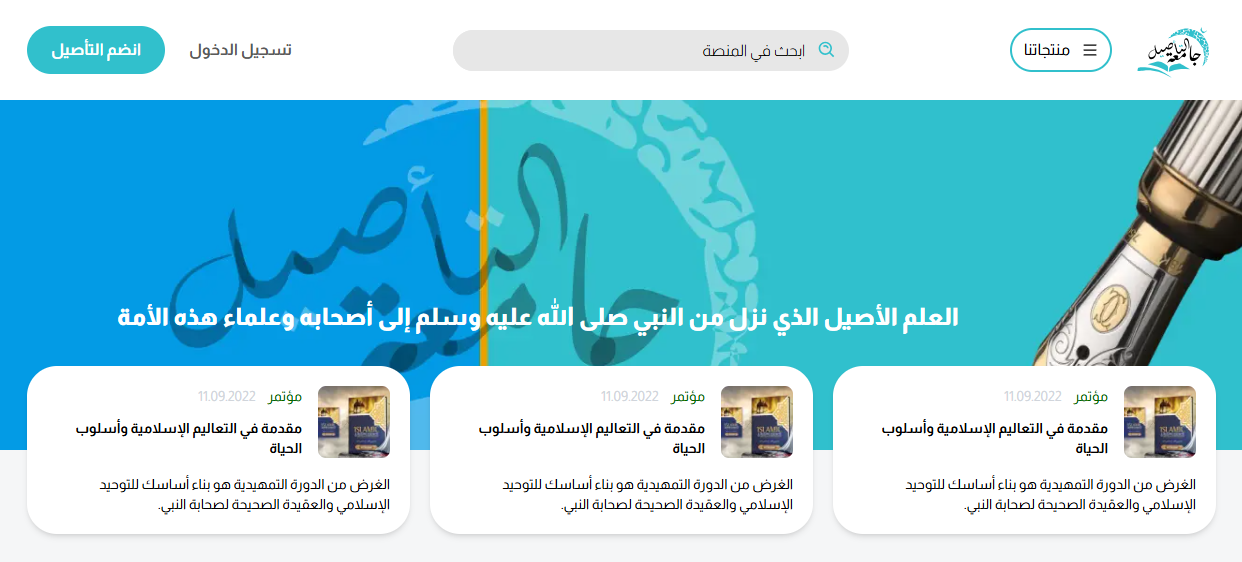
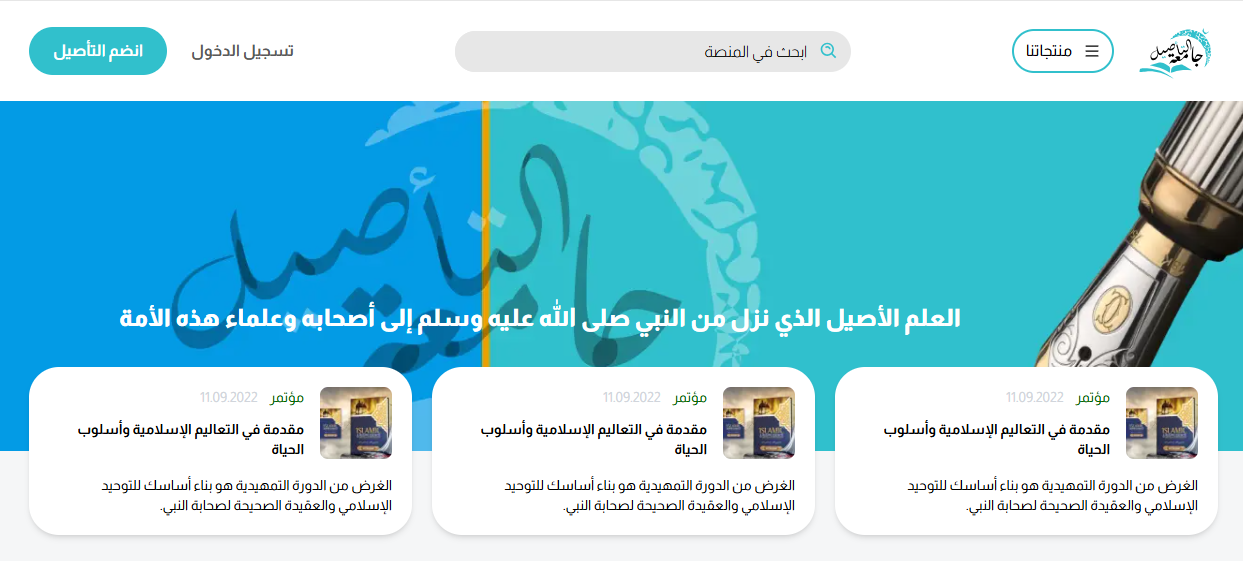
add parallax animation to the new project section

diff --git a/src/components/newProject.tsx b/src/components/newProject.tsx
@@ -1,0 +1,101 @@
+import Image from "next/image";
+import React from "react";
+import ataasil from "../../public/assets/images/ataasil.png";
+import teverse from "../../public/assets/images/teverse.png";
+import cloud from "../../public/assets/images/cloud.png";
+import bayaan from "../../public/assets/images/bayaan.png";
+import consology from "../../public/assets/images/consology.png";
+import sunnahhive from "../../public/assets/images/sunnahhive.png";
+import { HighlightedText } from "./ui/animated/highlightText";
+import { Parallax } from "./ui/animated/parallax";
+import Link from "next/link";
+
+const projects = [
+  {
+    title: "At-Taasil Islaamic University",
+    description: "An esteemed university in the Kingdom of Saudi Arabia",
+    link: "https://ataasil.vercel.app/",
+    image: ataasil,
+  },
+  {
+    title: "Teverse",
+    description: "An esteemed university in the Kingdom of Saudi Arabia",
+    link: "https://teverse-web.vercel.app/",
+    image: teverse,
+    isRight: true, // For right-side alignment
+  },
+  {
+    title: "Cloud",
+    description: "An esteemed university in the Kingdom of Saudi Arabia",
+    link: "https://cloud-test-project.vercel.app/",
+    image: cloud,
+  },
+  {
+    title: "Markazul Bayaan",
+    description: "An esteemed university in the Kingdom of Saudi Arabia",
+    link: "https://www.markazulbayaan.com.ng/",
+    image: bayaan,
+    isRight: true, // For right-side alignment
+  },
+  {
+    title: "Sunnah Hive",
+    description: "An esteemed university in the Kingdom of Saudi Arabia",
+    link: "https://sunnah-hive.vercel.app/",
+    image: sunnahhive,
+  },
+  {
+    title: "Consology",
+    description: "An esteemed university in the Kingdom of Saudi Arabia",
+    link: "https://consology.vercel.app/",
+    image: consology,
+    isRight: true, // For right-side alignment
+  },
+];
+
+export default function NewProject() {
+  return (
+    <div className="p-20 bg-black text-white sm:p-8">
+      <h1 className="text-7xl sm:text-3xl text-center pb-20">
+        My Latest{" "}
+        <HighlightedText
+          highlightColor="#0000FF"
+          highlightHeight="100%"
+          className="p-2"
+          highlightClassName="z-[-1] rounded-lg"
+        >
+          Projects
+        </HighlightedText>
+      </h1>
+      <div className="grid grid-cols-1 gap-10 sm:grid-cols-1">
+        {projects.map((project, index) => (
+          <Link href={project.link} key={index}>
+            <div
+              className={`py-16 overflow-hidden ${
+                project.isRight ? "ml-40 sm:mt-0" : "mr-40"
+              }`}
+              data-aos="fade-up"
+              data-aos-anchor-placement="bottom-center"
+            >
+              <Parallax
+                offset={100}
+                direction="horizontal"
+                className="h-96"
+                reverse={project.isRight}
+              >
+                <div className="space-y-5">
+                  <h2 className="text-5xl font-bold sm:text-xl">
+                    {project.title}
+                  </h2>
+                  <p className="text-xl sm:text-xs">{project.description}</p>
+                  <div className="">
+                    <Image src={project.image} alt={project.title} />
+                  </div>
+                </div>
+              </Parallax>
+            </div>
+          </Link>
+        ))}
+      </div>
+    </div>
+  );
+}

diff --git a/src/components/ui/animated/parallax.tsx b/src/components/ui/animated/parallax.tsx
@@ -1,0 +1,53 @@
+"use client";
+
+import React, { useRef } from "react";
+
+import { motion, useScroll, useTransform } from "framer-motion";
+
+interface ParallaxProps {
+  children: React.ReactNode;
+  offset?: number;
+  className?: string;
+  direction?: "vertical" | "horizontal";
+  reverse?: boolean;
+}
+
+export const Parallax: React.FC<ParallaxProps> = ({
+  children,
+  offset = 50,
+  className = "",
+  direction = "vertical",
+  reverse = false,
+}) => {
+  const ref = useRef<HTMLDivElement>(null);
+
+  const { scrollYProgress } = useScroll({
+    target: ref,
+    offset: ["start end", "end start"],
+  });
+
+  const calculateRange = (start: number, end: number) =>
+    reverse ? [end, start] : [start, end];
+
+  // Always define the transformations for both directions
+  const transformY = useTransform(
+    scrollYProgress,
+    [0, 1],
+    calculateRange(offset, -offset)
+  );
+  const transformX = useTransform(
+    scrollYProgress,
+    [0, 1],
+    calculateRange(offset, -offset)
+  );
+
+  // Choose the transform style based on direction
+  const transform =
+    direction === "vertical" ? { y: transformY } : { x: transformX };
+
+  return (
+    <div ref={ref} className={`relative overflow-hidden ${className}`}>
+      <motion.div style={transform}>{children}</motion.div>
+    </div>
+  );
+};

diff --git a/src/components/project.tsx b/src/components/project.tsx
@@ -1,6 +1,6 @@
 import Image from "next/image";
 import React from "react";
-import laptop from "../../public/assets/images/laptop.jpg";
+import ataasil from "../../public/assets/images/ataasil.png";
 import code from "../../public/assets/images/code.jpg";
 import network from "../../public/assets/images/network.jpg";
 import tables from "../../public/assets/images/tables.jpg";
@@ -10,7 +10,7 @@ const projects = [
   {
     title: "At-Taasil Islaamic University",
     description: "An esteemed university in the Kingdom of Saudi Arabia",
-    image: laptop,
+    image: ataasil,
   },
   {
     title: "Teverse",
@@ -55,7 +55,9 @@ export default function Project() {
           >
             <h2 className="text-4xl font-bold sm:text-xl">{project.title}</h2>
             <p className="sm:text-xs">{project.description}</p>
-            <Image src={project.image} alt={project.title} />
+            <div className="">
+              <Image src={project.image} alt={project.title} />
+            </div>
           </div>
         ))}
       </div>

diff --git a/src/components/aboutMe.tsx b/src/components/aboutMe.tsx
@@ -47,7 +47,7 @@ export default function About() {
             {services.map((service, index) => (
               <div
                 key={index}
-                className="rounded-lg p-6 flex flex-col items-center justify-center text-center space-y-4 hover:scale-105 transition-transform duration-300"
+                className="rounded-lg cursor-pointer p-6 flex flex-col items-center justify-center text-center space-y-4 hover:scale-105 transition-transform duration-300"
               >
                 <span className="text-4xl">{service.icon}</span>
                 <p>{service.title}</p>

diff --git a/src/pages/index.tsx b/src/pages/index.tsx
@@ -1,6 +1,6 @@
 import AboutMe from "@/components/aboutMe";
 import Hero from "@/components/hero";
-import Project from "@/components/project";
+import NewProject from "@/components/newProject";
 import { Geist, Geist_Mono } from "next/font/google";
 
 const geistSans = Geist({
@@ -18,7 +18,7 @@ export default function Home() {
     <div className={`${geistSans.variable} ${geistMono.variable} `}>
       <Hero />
       <AboutMe />
-      <Project />
+      <NewProject />
     </div>
   );
 }

diff --git a/src/components/hero.tsx b/src/components/hero.tsx
@@ -39,7 +39,7 @@ export default function Hero() {
         <div className="h-full ">
           <h1 className="text-7xl sm:text-4xl overflow-hidden">
             <Typewriter
-              text={"I am LUKMAN, a Frontend Engineer that creates:"}
+              text={"I am LUKMAN, a Frontend Engineer specializing in:"}
               delay={40}
               onTypingComplete={() => setText(true)}
             />
